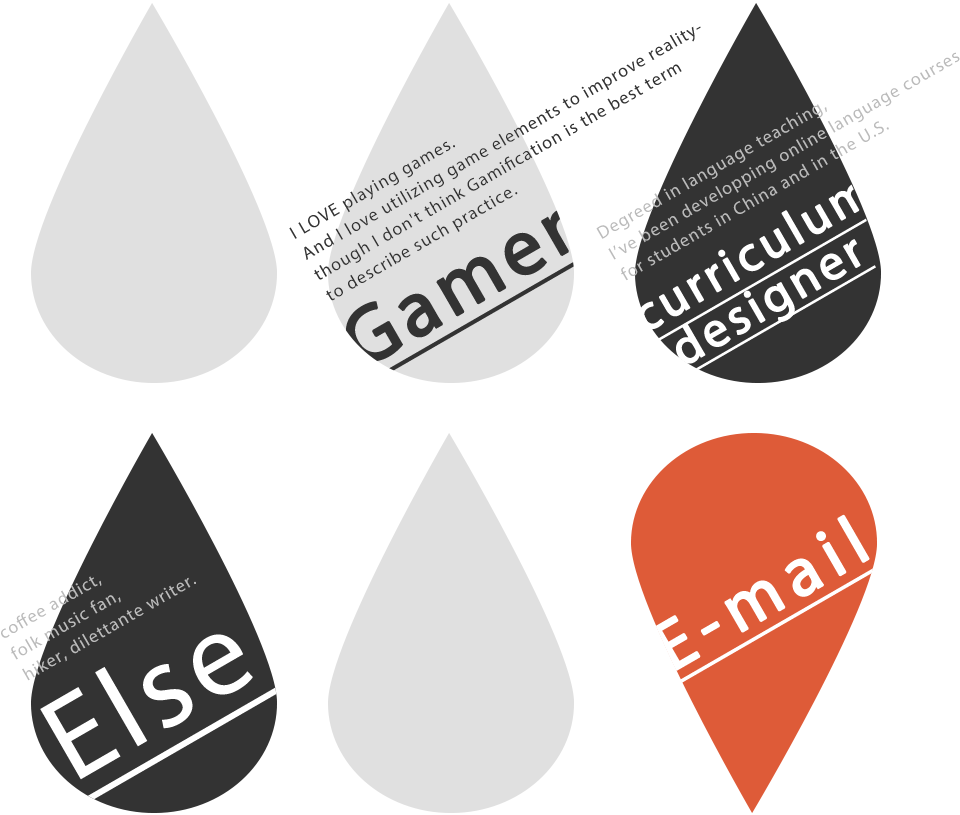
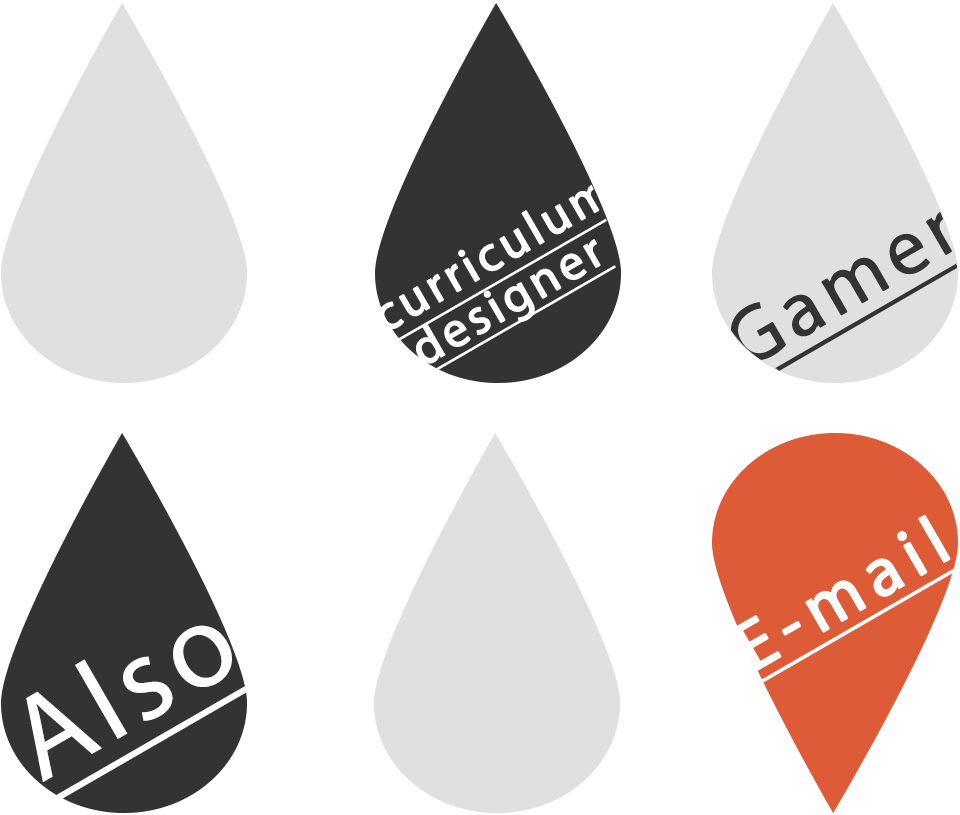
add hover intro for sc about page

diff --git a/static/css/zc.css b/static/css/zc.css
@@ -27,8 +27,7 @@ body,a,span{font-family:Frutiger,"Frutiger Linotype",Univers,Calibri,"Gill Sans"
 .footer-bar-box .footer-bar a:hover{color:#fff;text-decoration:none}
 .footer-bar-box .footer-bar .lk-dividor{margin:0 10px;color:#6c6c6c}
 .footer-bar-box .footer-bar .footer-bar-copyright{color:#6c6c6c}
-.about-page{padding-bottom:40px;padding-top:1px;}
-.about-page .about-item{margin-top:40px}
+.about-page{padding-bottom:40px;padding-top:40px;}
 .about-page .email-item{height:480px;background:url("/static/imgs/about-4.jpg") 0 0;}
 .about-page .email-item .email-btn{display:block;position:relative;top:350px;width:138px;margin:auto;height:40px;background:url("/static/imgs/icons.png") 0 -412px;}
 .about-page .email-item .email-btn:hover{background:url("/static/imgs/icons.png") -148px -412px}
@@ -120,6 +119,14 @@ body,a,span{font-family:Frutiger,"Frutiger Linotype",Univers,Calibri,"Gill Sans"
 .cover-page .couple .c-unhover .c-drop{background:url("/static/imgs/icons.png") -12px -1248px}
 .cover-page .couple .c-left .c-intro{border-right:#e2e2e2 solid 1px}
 textarea:hover,input:hover,textarea:active,input:active,textarea:focus,input:focus,button:focus,button:active,button:hover{outline:0 !important;-webkit-appearance:none}
-.cup-bar-logo-zc{margin:auto;width:276px;height:302px;background:url("/static/imgs/icons.png") 0 -562px;position:fixed;top:0;left:50%;margin-top:30px;margin-left:-138px}
-.zc-email-link{width:250px;height:350px;position:relative;top:-380px;left:630px;display:block}
-.about-page{height:845px}
+.cup-bar-logo-zc{margin:auto;width:276px;height:302px;background:url("/static/imgs/icons.png") 0 -562px;position:fixed;top:0;left:50%;margin-top:30px;margin-left:-138px;z-index:150}
+.header-bar-box{z-index:100}
+.about-page .about-item{height:815px;max-height:815px;background:url("/static/imgs/abouthim.png");}
+.about-page .about-item >a{position:relative;width:246px;height:380px;background-color:rgba(0,0,0,0);display:inline-block}
+.about-page .about-item .abouthim1{left:375px;top:4px;}
+.about-page .about-item .abouthim1:hover{background:url("/static/imgs/abouthim1.png")}
+.about-page .about-item .abouthim2{left:466px;top:4px}
+.about-page .about-item .abouthim2:hover{background:url("/static/imgs/abouthim2.png")}
+.about-page .about-item .abouthim3{left:-495px;top:434px}
+.about-page .about-item .abouthim3:hover{background:url("/static/imgs/abouthim3.png")}
+.about-page .about-item .zc-email-link{top:48px;left:712px}

diff --git a/static/css/zx.css b/static/css/zx.css
@@ -27,8 +27,7 @@ body,a,span{font-family:Frutiger,"Frutiger Linotype",Univers,Calibri,"Gill Sans"
 .footer-bar-box .footer-bar a:hover{color:#fcdd4a;text-decoration:none}
 .footer-bar-box .footer-bar .lk-dividor{margin:0 10px;color:#6c6c6c}
 .footer-bar-box .footer-bar .footer-bar-copyright{color:#6c6c6c}
-.about-page{padding-bottom:40px;padding-top:1px;}
-.about-page .about-item{margin-top:40px}
+.about-page{padding-bottom:40px;padding-top:40px;}
 .about-page .email-item{height:480px;background:url("/static/imgs/about-4.jpg") 0 0;}
 .about-page .email-item .email-btn{display:block;position:relative;top:350px;width:138px;margin:auto;height:40px;background:url("/static/imgs/icons.png") 0 -412px;}
 .about-page .email-item .email-btn:hover{background:url("/static/imgs/icons.png") -148px -412px}

diff --git a/static/js/zc.js b/static/js/zc.js
@@ -42,7 +42,7 @@ angular.module('zxblog', ['ngRoute', 'ngResource', 'ngSanitize']).config(functio
     $scope.$posts = posts_info.posts;
     $scope.$current_page = $routeParams.page;
     $scope.$catname = $routeParams.catname;
-    return $scope.$pgs = page_generator(posts_info.found, 2, $routeParams.page);
+    return $scope.$pgs = page_generator(posts_info.found, 5, $routeParams.page);
   });
 }).factory('postsFactory', [
   '$resource', function($resource) {

diff --git a/static/js/zxblog.js b/static/js/zxblog.js
@@ -43,7 +43,7 @@ angular.module('zxblog', ['ngRoute', 'ngResource', 'ngSanitize']).config(functio
     $scope.$posts = posts_info.posts;
     $scope.$current_page = $routeParams.page;
     $scope.$catname = $routeParams.catname;
-    return $scope.$pgs = page_generator(posts_info.found, 2, $routeParams.page);
+    return $scope.$pgs = page_generator(posts_info.found, 5, $routeParams.page);
   });
 }).factory('postsFactory', [
   '$resource', function($resource) {

diff --git a/zc/about.html b/zc/about.html
@@ -1,6 +1,12 @@
 <div class="pg-item about-page">
     <div class="about-item">
-        <img src="/static/imgs/abouthim.png" class="" alt="Hi all" />
-    </div>
+        <!-- <img src="/static/imgs/abouthim.png" class="" alt="Hi all" /> -->
+        <a class="abouthim1">
+        </aiv>
+        <a class="abouthim2">
+        </a>
+        <a class="abouthim3">
+        </a>
     <a class="zc-email-link" href="/"></a>
+    </div>
 </div>
